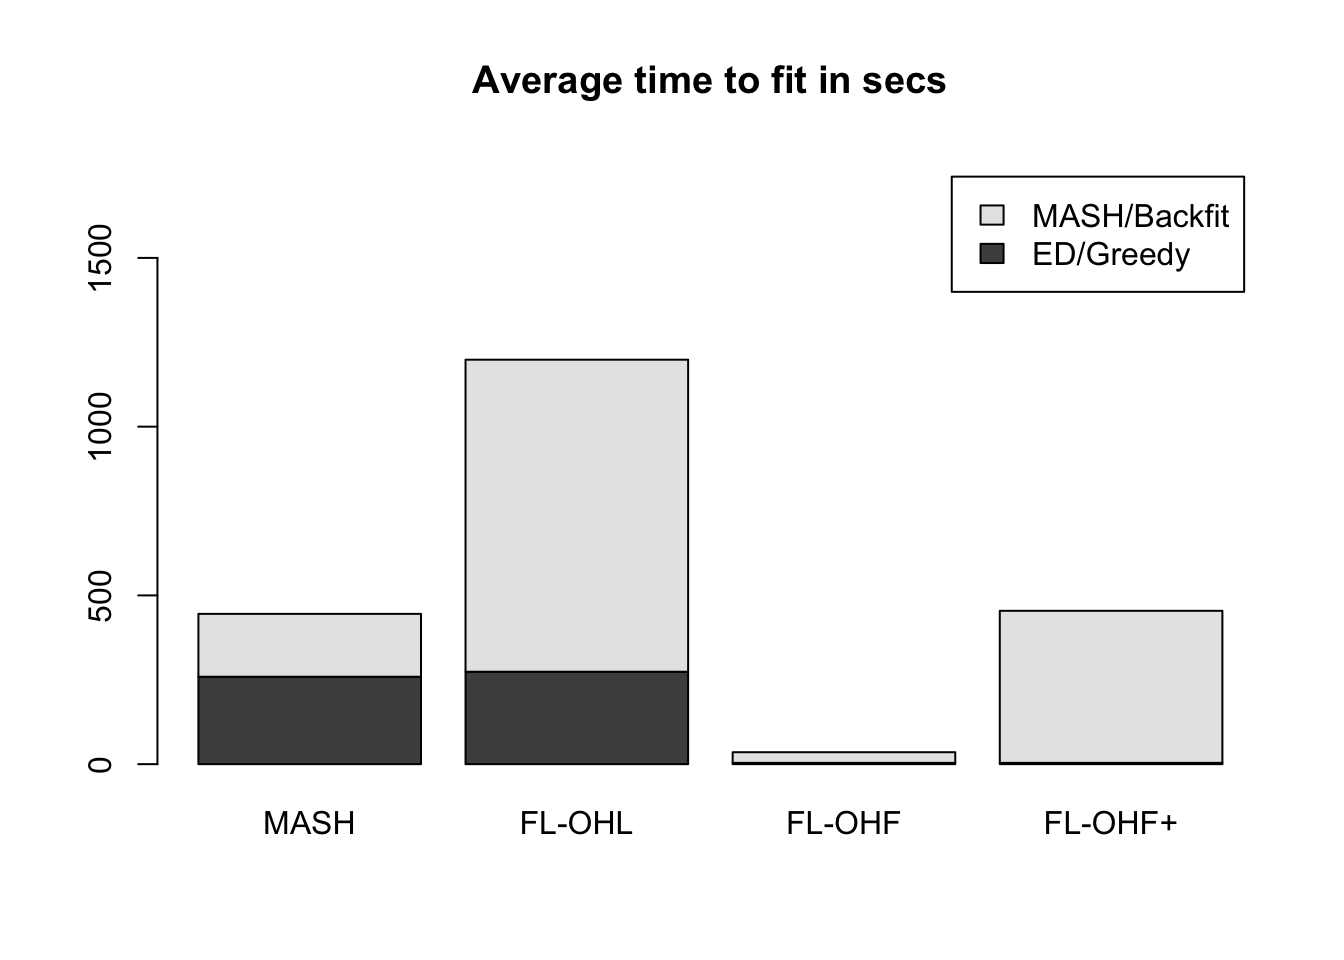
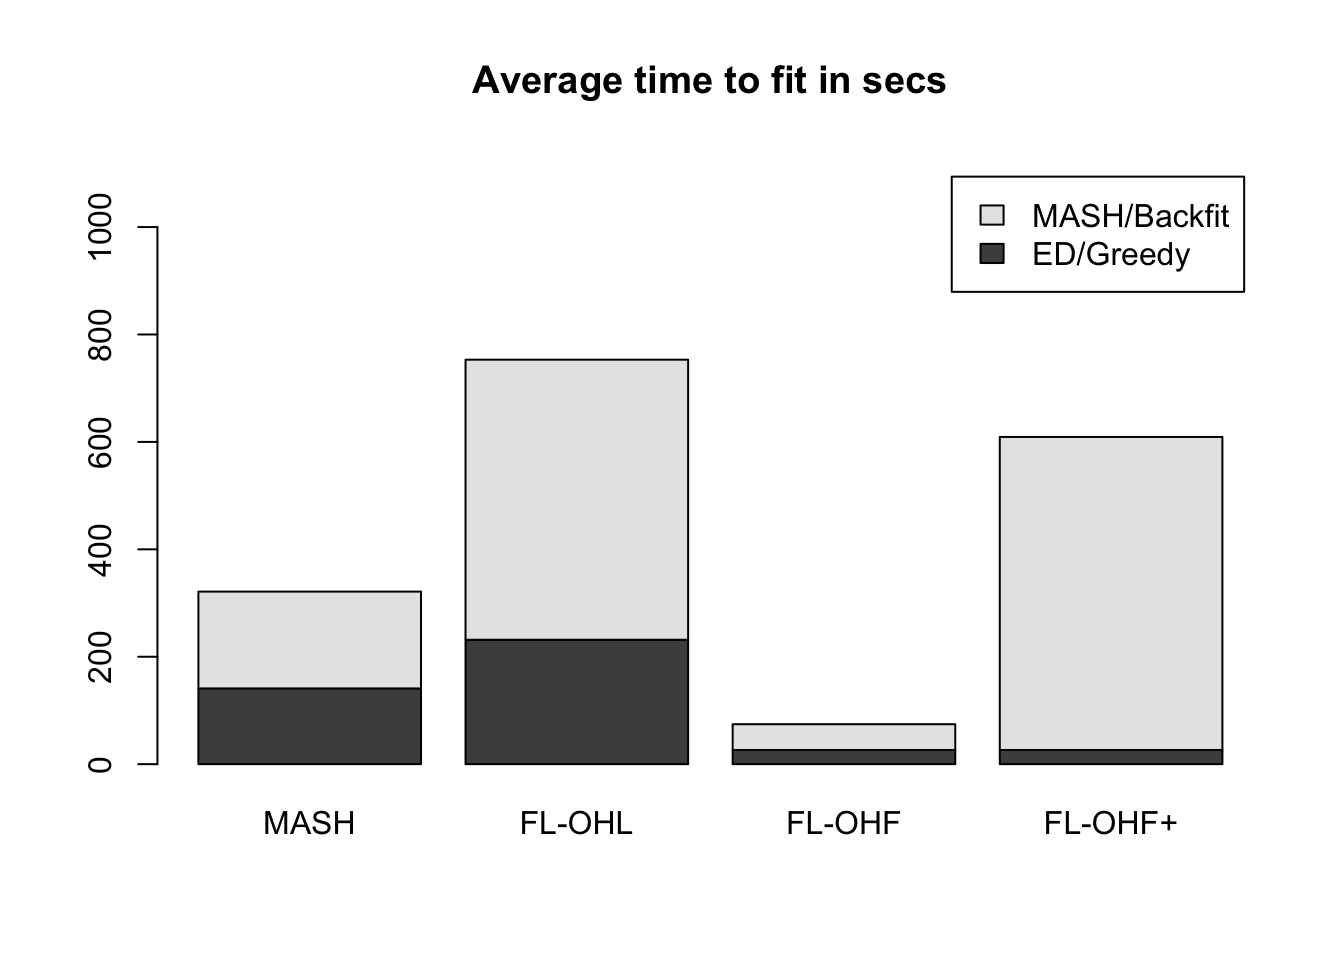
Build site.

diff --git a/docs/MASHvFLASHgtex.html b/docs/MASHvFLASHgtex.html
@@ -331,7 +331,7 @@ div.section {
 </div>
 
 
-<p><strong>Last updated:</strong> 2018-06-16</p>
+<p><strong>Last updated:</strong> 2018-06-20</p>
 <strong>workflowr checks:</strong> <small>(Click a bullet for more information)</small>
 <ul>
 <li>
@@ -355,7 +355,7 @@ div.section {
 </details>
 </li>
 <li>
-<p><details> <summary> <strong style="color:blue;">✔</strong> <strong>Repository version:</strong> <a href="https://github.com/willwerscheid/MASHvFLASH/tree/eac4059fca5ec35717dfa5999b725b3a54a888ac" target="_blank">eac4059</a> </summary></p>
+<p><details> <summary> <strong style="color:blue;">✔</strong> <strong>Repository version:</strong> <a href="https://github.com/willwerscheid/MASHvFLASH/tree/122f83a25d9ea83f5c50e9b0f150ef5ecd854963" target="_blank">122f83a</a> </summary></p>
 Great! You are using Git for version control. Tracking code development and connecting the code version to the results is critical for reproducibility. The version displayed above was the version of the Git repository at the time these results were generated. <br><br> Note that you need to be careful to ensure that all relevant files for the analysis have been committed to Git prior to generating the results (you can use <code>wflow_publish</code> or <code>wflow_git_commit</code>). workflowr only checks the R Markdown file, but you know if there are other scripts or data files that it depends on. Below is the status of the Git repository when the results were generated:
 <pre><code>
 Ignored files:
@@ -364,6 +364,13 @@ Ignored files:
     Ignored:    .Rproj.user/
     Ignored:    docs/.DS_Store
     Ignored:    docs/images/.DS_Store
+    Ignored:    output/.DS_Store
+
+Unstaged changes:
+    Modified:   code/gtex.R
+    Modified:   output/gtexflfit.rds
+    Modified:   output/gtexfllfsr.rds
+    Modified:   output/gtexmfit.rds
 
 </code></pre>
 Note that any generated files, e.g. HTML, png, CSS, etc., are not included in this status report because it is ok for generated content to have uncommitted changes. </details>
@@ -392,6 +399,40 @@ Message
 </tr>
 </thead>
 <tbody>
+<tr>
+<td style="text-align:left;">
+Rmd
+</td>
+<td style="text-align:left;">
+<a href="https://github.com/willwerscheid/MASHvFLASH/blob/122f83a25d9ea83f5c50e9b0f150ef5ecd854963/analysis/MASHvFLASHgtex.Rmd" target="_blank">122f83a</a>
+</td>
+<td style="text-align:left;">
+Jason Willwerscheid
+</td>
+<td style="text-align:left;">
+2018-06-20
+</td>
+<td style="text-align:left;">
+wflow_publish(“analysis/MASHvFLASHgtex.Rmd”)
+</td>
+</tr>
+<tr>
+<td style="text-align:left;">
+html
+</td>
+<td style="text-align:left;">
+<a href="https://cdn.rawgit.com/willwerscheid/MASHvFLASH/b1ff37c45685ef0877b34a2f3ad1b036333fcddd/docs/MASHvFLASHgtex.html" target="_blank">b1ff37c</a>
+</td>
+<td style="text-align:left;">
+Jason Willwerscheid
+</td>
+<td style="text-align:left;">
+2018-06-16
+</td>
+<td style="text-align:left;">
+Build site.
+</td>
+</tr>
 <tr>
 <td style="text-align:left;">
 Rmd
@@ -448,29 +489,28 @@ analysis/index.Rmd
 </ul>
 <p></details></p>
 <hr />
-<p>Here I analyze some GTEx data. The dataset can be found at <a href="https://stephenslab.github.io/gtexresults/" class="uri">https://stephenslab.github.io/gtexresults/</a>.</p>
+<p>Here I analyze some GTEx data. The dataset can be found at <a href="https://stephenslab.github.io/gtexresults/" class="uri">https://stephenslab.github.io/gtexresults/</a>. I use the “random.z” dataset, which consists of <span class="math inline">\(z\)</span>-scores for 44 tissues and a random subset of 20000 genes.</p>
 <div id="fitting-methods" class="section level2">
 <h2>Fitting methods</h2>
 <p>I used the same methods to fit the data that I used in my <a href="MASHvFLASHsims.html">simulation study</a>. These methods assume that noise is independent among conditions. It is not, but it is still useful to see how the methods compare when applied to a real dataset.</p>
-<p>The simulation study suggested that the “one-hots last” method produces a much better fit than the “one-hots first” method, even though it can take quite a bit longer. Here I enter into some more detail.</p>
+<p>The simulation study suggested that the “one-hots last” method typically produces a better fit than the “one-hots first” method, even though it can take quite a bit longer. Here I enter into some more detail.</p>
 <p>First I load the data and the fits.</p>
-<pre class="r"><code>gtex &lt;- readRDS(&quot;./data/MatrixEQTLSumStats.Portable.Z.rds&quot;)
-data &lt;- gtex$test.z
+<pre class="r"><code>gtex &lt;- readRDS(gzcon(url(&quot;https://github.com/stephenslab/gtexresults/blob/master/data/MatrixEQTLSumStats.Portable.Z.rds?raw=TRUE&quot;)))
+
+data &lt;- gtex$random.z
 data &lt;- t(data)
 fl_data &lt;- flash_set_data(data, S = 1)
 
 gtex_mfit &lt;- readRDS(&quot;./output/gtexmfit.rds&quot;)
-gtex_flfit &lt;- readRDS(&quot;./output/gtexflfit.rds&quot;)
-gtex_flfit2 &lt;- readRDS(&quot;./output/gtexflfit2.rds&quot;)
-gtex_flfit3 &lt;- readRDS(&quot;./output/gtexflfit3.rds&quot;)</code></pre>
-<p>The OHL fit was produced by greedily adding a total of 31 factors, then adding 44 fixed one-hot factors (one per condition), then backfitting the whole thing. The objective attained was -1259284.</p>
-<p>The OHF fit added the 44 fixed one-hot factors, then backfit them, then added only 2 (!) more factors greedily. The resulting objective was much worse than that of the OHL fit, at -1635669.</p>
-<p>Finally, I tried applying an additional backfitting step to the OHF fit to see how much the objective improved (I call this method “FLASH-OHF+” in the plot below). The final objective was -1306242: better, but still not as good as the OHL fit.</p>
+gtex_flfit &lt;- readRDS(&quot;./output/gtexflfit.rds&quot;)</code></pre>
+<p>The OHL fit was produced by greedily adding a total of 17 factors, then adding 44 fixed one-hot factors (one per condition), then backfitting the whole thing. The objective attained was -1277145.</p>
+<p>The OHF fit added the 44 fixed one-hot factors, then backfit them, then added only 4 (!) more factors greedily. The resulting objective was much worse than that of the OHL fit, at -1315285.</p>
+<p>Finally, I tried applying an additional backfitting step to the OHF fit to see how much the objective improved (I call this method “FLASH-OHF+” in the simulation study). The final objective was -1278991: better, but still not as good as the OHL fit.</p>
 <p>It seems clear that the OHL method is the way to go. However, it does take a long time (over twice as long as MASH):</p>
 <pre class="r"><code>data &lt;- c(gtex_mfit$timing$ed, gtex_mfit$timing$mash,
-          gtex_flfit$timing$greedy, gtex_flfit$timing$backfit,
-          gtex_flfit2$timing$greedy, gtex_flfit2$timing$backfit,
-          gtex_flfit3$timing$greedy, gtex_flfit3$timing$backfit)
+          gtex_flfit$timing$OHL$greedy, gtex_flfit$timing$OHL$backfit,
+          gtex_flfit$timing$OHF$greedy, gtex_flfit$timing$OHF$backfit,
+          gtex_flfit$timing$OHFp$greedy, gtex_flfit$timing$OHFp$backfit)
 time_units &lt;- units(data)
 data &lt;- matrix(as.numeric(data), 2, 4)
 barplot(data, axes=T,
@@ -512,7 +552,7 @@ Jason Willwerscheid
 </div>
 <div id="mash-v-flash-posterior-means" class="section level2">
 <h2>MASH v FLASH posterior means</h2>
-<p>The posterior means are quite similar (correlation coefficient = 0.98):</p>
+<p>The posterior means are quite similar (correlation coefficient = 0.95). The dashed line plots <span class="math inline">\(y = x\)</span>:</p>
 <div class="figure">
 <img src="images/gtexcompare.png" />
 
@@ -520,7 +560,7 @@ Jason Willwerscheid
 </div>
 <div id="mash-v-flash-lfsr" class="section level2">
 <h2>MASH v FLASH LFSR</h2>
-<p>Next I look at confusion matrices for gene-condition pairs that are declared significant at a given LFSR threshold. For each threshold, MASH and FLASH agree in approximately 85-87% of cases.</p>
+<p>Next I look at confusion matrices for gene-condition pairs that are declared significant at a given LFSR threshold. As in the <a href="MASHvFLASHsims.html">simulation study</a>, I used a built-in function to evaluate LFSR for the MASH fit and I sampled from the posterior for the FLASH fit. Interestingly, FLASH turns out to be more conservative than MASH at higher LFSR thresholds but less conservative at <span class="math inline">\(t = 0.001\)</span>.</p>
 <pre class="r"><code>m_lfsr &lt;- t(get_lfsr(gtex_mfit$m))
 fl_lfsr &lt;- readRDS(&quot;./output/gtexfllfsr.rds&quot;)
 
@@ -534,62 +574,47 @@ confusion_matrix &lt;- function(t) {
 <pre class="r"><code>confusion_matrix(.05)</code></pre>
 <pre><code>           flash_signif
 mash_signif FALSE  TRUE
-      FALSE 0.407 0.116
-      TRUE  0.036 0.441</code></pre>
+      FALSE 0.744 0.025
+      TRUE  0.084 0.147</code></pre>
 <p>At 1%:</p>
 <pre class="r"><code>confusion_matrix(.01)</code></pre>
 <pre><code>           flash_signif
 mash_signif FALSE  TRUE
-      FALSE 0.523 0.076
-      TRUE  0.056 0.346</code></pre>
+      FALSE 0.862 0.017
+      TRUE  0.039 0.082</code></pre>
 <p>At 0.1%:</p>
 <pre class="r"><code>confusion_matrix(.001)</code></pre>
 <pre><code>           flash_signif
 mash_signif FALSE  TRUE
-      FALSE 0.585 0.088
-      TRUE  0.048 0.279</code></pre>
+      FALSE 0.910 0.027
+      TRUE  0.011 0.052</code></pre>
 </div>
 <div id="code" class="section level2">
 <h2>Code</h2>
-<p>Click the button to view the code used to obtain the above results.</p>
+<p>Click the “Code” button to view the code used to obtain the above results.</p>
 <pre class="r"><code>devtools::load_all(&quot;/Users/willwerscheid/GitHub/flashr2/&quot;)
 library(mashr)
 
-gtex &lt;- readRDS(&quot;./data/MatrixEQTLSumStats.Portable.Z.rds&quot;)
-data &lt;- gtex$test.z
+gtex &lt;- readRDS(gzcon(url(&quot;https://github.com/stephenslab/gtexresults/blob/master/data/MatrixEQTLSumStats.Portable.Z.rds?raw=TRUE&quot;)))
+
+data &lt;- gtex$random.z
 data &lt;- t(data)
 fl_data &lt;- flash_set_data(data, S = 1)
 
 source(&quot;./code/fits.R&quot;)
 source(&quot;./code/sims.R&quot;)
+source(&quot;./code/utils.R&quot;)
 
 gtex_mfit &lt;- fit_mash(data)
 saveRDS(gtex_mfit, &quot;./output/gtexmfit.rds&quot;)
 
-gtex_flfit &lt;- fit_flash(data, Kmax = 40, add_onehots_first = FALSE)
+gtex_flfit &lt;- fit_flash(data, Kmax = 40, methods=2:5)
 saveRDS(gtex_flfit, &quot;./output/gtexflfit.rds&quot;)
 
-obj1 &lt;- flash_get_objective(fl_data, gtex_flfit$fl) # -1259284
-
-
-# Try OHF method of fitting FLASH object and compare likelihoods
-gtex_flfit2 &lt;- fit_flash(data, Kmax = 40, add_onehots_first = TRUE)
-saveRDS(gtex_flfit2, &quot;./output/gtexflfit2.rds&quot;)
-
-obj2 &lt;- flash_get_objective(fl_data, gtex_flfit2$fl) # -1635669
-
-# Now do an additional backfit on the OHF fit
-gtex_flfit3 &lt;- list()
-t0 &lt;- Sys.time()
-gtex_flfit3$fl &lt;- flash_backfit(fl_data, gtex_flfit2$fl, var_type = &quot;zero&quot;,
-                             nullcheck = F, verbose = T)
-t &lt;- Sys.time() - t0
-gtex_flfit3$timing &lt;- gtex_flfit2$timing
-gtex_flfit3$timing$backfit &lt;- gtex_flfit3$timing$backfit + t
-gtex_flfit3$timing$total &lt;- gtex_flfit3$timing$total + t
-saveRDS(gtex_flfit3, &quot;./output/gtexflfit3.rds&quot;)
-
-obj3 &lt;- flash_get_objective(fl_data, gtex_flfit3$fl) # -1306242
+flash_get_objective(fl_data, gtex_flfit$fits$Zero) # -1277881
+flash_get_objective(fl_data, gtex_flfit$fits$OHL) # -1277145
+flash_get_objective(fl_data, gtex_flfit$fits$OHF) # -1315285
+flash_get_objective(fl_data, gtex_flfit$fits$OHFp) # -1278991
 
 
 # Use PM from each method as &quot;true Y&quot; and do diagnostics
@@ -603,18 +628,19 @@ obj3 &lt;- flash_get_objective(fl_data, gtex_flfit3$fl) # -1306242
 
 
 # Plot FLASH PM vs. MASH PM
-fl_pm &lt;- flash_get_lf(gtex_flfit$fl)
+fl_pm &lt;- flash_get_lf(gtex_flfit$fits$OHL)
 m_pm &lt;- t(get_pm(gtex_mfit$m))
 png(&quot;./output/gtexcompare.png&quot;)
 plot(as.vector(fl_pm), as.vector(m_pm), xlab=&quot;FLASH PM&quot;, ylab=&quot;MASH PM&quot;,
      main=&quot;Posterior means on GTEx data&quot;, pch=&#39;.&#39;)
+abline(0, 1, lty=2)
 dev.off()
-corr &lt;- cor(as.vector(fl_pm), as.vector(m_pm))
+cor(as.vector(fl_pm), as.vector(m_pm)) # 0.952
 
 # Use LFSR to get &quot;significant&quot; effects and get confusion matrices
 m_lfsr &lt;- t(get_lfsr(gtex_mfit$m))
 
-fl_sampler &lt;- flash_lf_sampler(data, gtex_flfit$fl, ebnm_fn=ebnm_pn, fixed=&quot;loadings&quot;)
+fl_sampler &lt;- flash_lf_sampler(data, gtex_flfit$fits$OHL, ebnm_fn=ebnm_pn, fixed=&quot;loadings&quot;)
 fl_lfsr &lt;- flash_lfsr(fl_sampler(200))
 saveRDS(fl_lfsr, &quot;./output/gtexfllfsr.rds&quot;)
 
